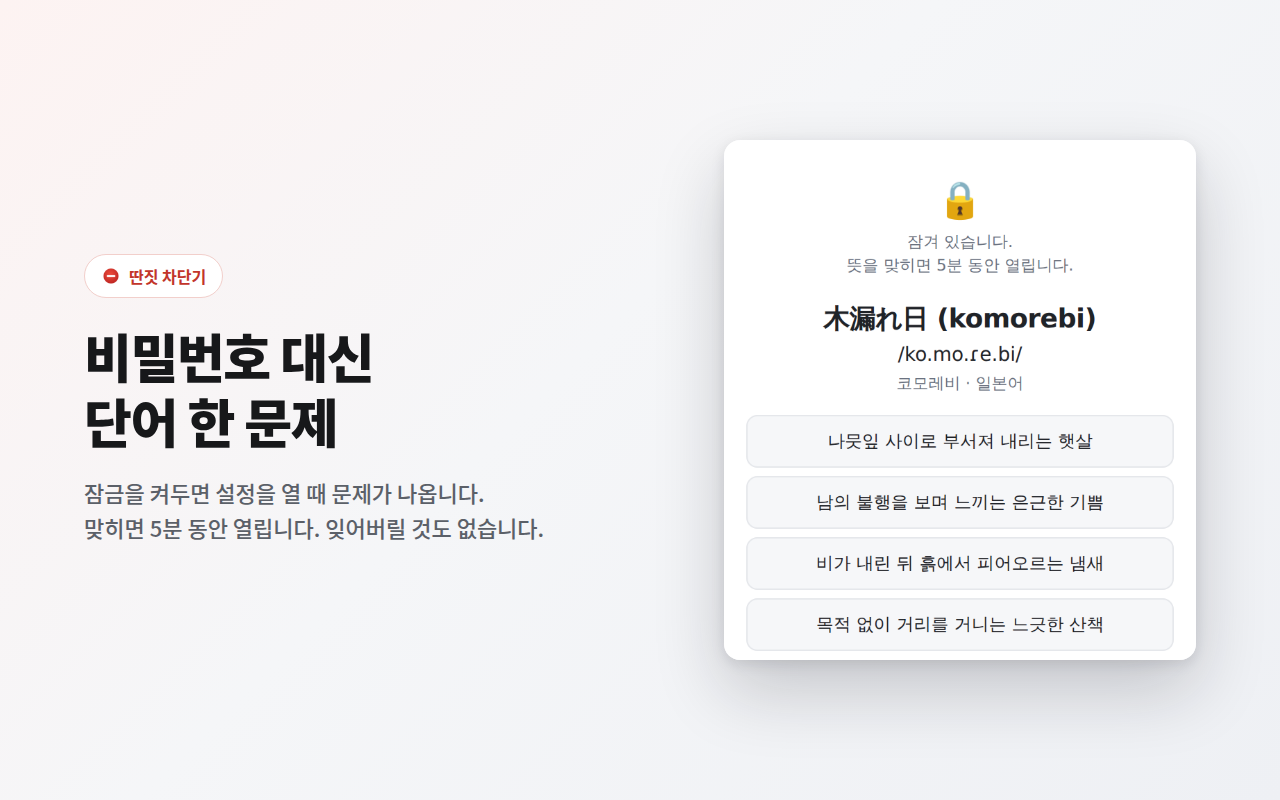
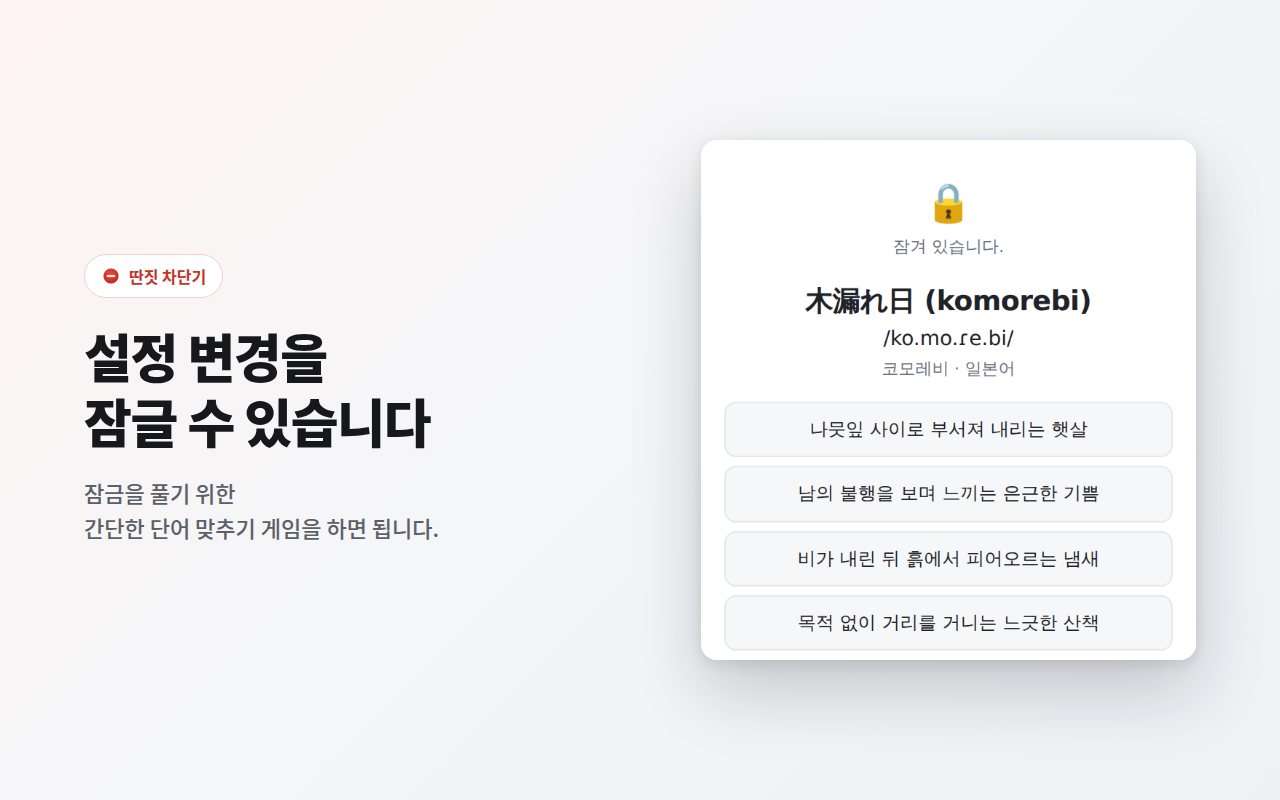
v2.1.0 개인정보처리방침 정리, 스크린샷5 수정

diff --git a/docs/index.html b/docs/index.html
@@ -113,52 +113,13 @@
     </ul>
     <p>분석 도구나 광고 SDK를 일절 포함하지 않으며, 외부 서버와 통신하는 코드가 존재하지 않습니다.</p>
 
-    <h2>2. 사용자의 브라우저에만 보관되는 설정 <span class="tag">수집 아님</span></h2>
-    <p>아래 항목은 <b>개발자가 수집하는 정보가 아닙니다.</b> 확장 프로그램이 동작하려고
-    사용자의 브라우저 안(크롬의 <code>chrome.storage</code>)에 보관하는 설정이며,
-    <b>개발자에게 전송되지 않습니다.</b></p>
-    <div class="scroll">
-    <table class="tbl">
-      <tr><th>보관 항목</th><th>내용</th><th>다른 기기와 동기화</th></tr>
-      <tr><td>차단 목록 · 예외 목록</td><td>사용자가 직접 입력한 도메인</td><td>예</td></tr>
-      <tr><td>차단 화면 문구</td><td>차단 화면에 표시할 기호와 짧은 문구</td><td>예</td></tr>
-      <tr><td>잠금 문제 단어</td><td>잠금을 풀 때 나오는 단어·발음·뜻 (사용자가 바꿀 수 있음)</td><td>예</td></tr>
-      <tr><td>동기화된 기기 목록</td><td>기기마다 한 줄: 사용자가 붙인 기기 이름("회사 PC" 등),
-        그 기기의 지금 차단·예외 목록, 목록이 마지막으로 바뀐 시각, 동기화 켜짐 여부.
-        목록이 바뀌면 최신 상태로 덮어써지며 쌓이지 않습니다. 사용자가 언제든 지울 수 있습니다.</td>
-        <td>예 (이 기기에서 동기화를 켠 경우만)</td></tr>
-      <tr><td>기기 구분 번호</td><td>내 기기끼리 구분하려고 확장 프로그램이 임의로 만든 짧은 번호.
-        하드웨어 정보와는 무관합니다.</td><td>기기 목록 안에서만</td></tr>
-      <tr><td>차단 켜짐 · 잠금 켜짐 · 동기화 켜짐</td><td>기능 켜짐/꺼짐 상태</td><td>아니요 (기기마다 따로)</td></tr>
-      <tr><td>잠금 해제 시각</td><td>문제를 맞힌 뒤 5분 동안 열어 두기 위한 시각.
-        브라우저를 닫으면 사라집니다.</td><td>아니요</td></tr>
-    </table>
-    </div>
-    <p>이 확장 프로그램은 <b>비밀번호를 사용하지 않습니다.</b> 잠금은 단어 문제로만 이루어지며,
-    계정·이메일·비밀번호를 묻거나 저장하지 않습니다.</p>
-
-    <h3>크롬 동기화에 대하여</h3>
-    <p>사용자가 크롬 동기화를 켜 두고 이 확장 프로그램의 <b>이 기기 동기화</b>도 켜 두었다면, 위 표에서 "예"로 표시된 항목이
-    <code>chrome.storage.sync</code> 를 통해 <b>사용자 본인의 구글 계정</b>에 보관되어
-    같은 계정으로 로그인한 <b>사용자 본인의 다른 크롬</b>으로만 전달됩니다.
-    이 전달은 구글이 제공하는 크롬 동기화 기능이 처리하며,
-    <b>개발자는 이 데이터에 접근할 수 없고 중간에 어떤 서버도 두지 않습니다.</b>
-    확장 프로그램 설정에서 <b>이 기기 동기화</b>를 끄거나 크롬 설정에서 동기화를 끄면,
-    그 기기의 목록은 그 기기 안에만 남고 다른 기기와 주고받지 않습니다.
-    (구글의 처리 방식은 <a href="https://policies.google.com/privacy">구글 개인정보처리방침</a>을 따릅니다.)</p>
-
-    <h3>엑셀 백업 파일에 대하여</h3>
-    <p>사용자가 직접 <b>엑셀로 내보내기</b>를 누른 경우에만, 차단·예외 목록, 차단 화면 문구,
-    잠금 문제 단어가 담긴 파일이 <b>사용자의 컴퓨터에 저장</b>됩니다.
-    이 파일은 어디로도 전송되지 않으며, 보관과 삭제는 사용자가 정합니다.</p>
-
-    <h2>3. 요청하는 권한과 사용 목적</h2>
+    <h2>2. 요청하는 권한과 사용 목적</h2>
     <div class="scroll">
     <table class="tbl">
       <tr><th>권한</th><th>사용 목적</th></tr>
       <tr>
         <td><code>storage</code></td>
-        <td>위 2항의 설정을 브라우저에 보관하고, 크롬 동기화를 켠 경우 사용자의 다른 크롬과 맞추기 위해 사용합니다.</td>
+        <td>아래 7항의 설정을 브라우저에 보관하고, 크롬 동기화를 켠 경우 사용자의 다른 크롬과 맞추기 위해 사용합니다.</td>
       </tr>
       <tr>
         <td><code>declarativeNetRequestWithHostAccess</code></td>
@@ -174,24 +135,34 @@
     </table>
     </div>
 
-    <h2>4. 제3자 제공 및 외부 전송</h2>
+    <h2>3. 제3자 제공 및 외부 전송</h2>
     <p>개발자가 수집하는 정보가 없으므로 제3자에게 제공하거나 판매하는 정보도 없습니다.
     이 확장 프로그램은 어떤 외부 서버와도 통신하지 않습니다.
     크롬 동기화를 켠 경우의 기기 간 전달은 사용자 본인의 구글 계정 안에서만 이루어집니다.</p>
 
-    <h2>5. 데이터 삭제</h2>
+    <h2>4. 데이터 삭제</h2>
     <p><code>chrome://extensions</code> 에서 이 확장 프로그램을 삭제하면 그 브라우저에 보관된 설정이 함께 지워집니다.
     크롬 동기화로 구글 계정에 보관된 사본은 모든 기기에서 확장 프로그램을 삭제하거나,
     <a href="https://chrome.google.com/sync">크롬 동기화 데이터 관리</a> 페이지에서 동기화를 초기화해 지울 수 있습니다.
     개발자는 이 데이터를 갖고 있지 않으므로 별도의 삭제 요청 절차가 필요 없습니다.</p>
 
-    <h2>6. 아동의 개인정보</h2>
+    <h2>5. 아동의 개인정보</h2>
     <p>이 확장 프로그램은 연령과 무관하게 어떤 개인정보도 수집하지 않습니다.</p>
 
-    <h2>7. 방침 변경</h2>
+    <h2>6. 방침 변경</h2>
     <p>내용이 변경되면 이 페이지를 갱신하고 상단의 시행일을 함께 수정합니다.
     수집하는 정보가 생기는 등 중대한 변경이 있을 경우 확장 프로그램 업데이트
     안내를 통해 별도로 알립니다.</p>
+
+    <h2>7. 브라우저에만 보관되는 설정 <span class="tag">수집 아님</span></h2>
+    <p>확장 프로그램이 동작하려고 사용자의 브라우저에 아래 설정만 보관합니다. 개발자에게 전송되지 않습니다.</p>
+    <ul>
+      <li>차단 목록 · 예외 목록</li>
+      <li>차단 화면 문구 · 잠금 문제 단어</li>
+      <li>기기 이름(과 구분용 임의 번호), 기능 켜짐/꺼짐 상태</li>
+    </ul>
+    <p>크롬 동기화와 <b>이 기기 동기화</b>를 켜 두면, 이 설정은 <b>사용자 본인의 구글 계정</b>을 통해
+    본인의 다른 크롬으로만 전달됩니다. 엑셀로 내보내기를 누르면 같은 내용이 사용자의 컴퓨터에 파일로 저장됩니다.</p>
 
     <h2>8. 문의</h2>
     <p>개인정보 처리에 관한 문의는 아래로 연락해 주세요.</p>
@@ -219,50 +190,13 @@
     <p>The extension contains no analytics or advertising SDKs, and no code that
     communicates with any external server.</p>
 
-    <h2>2. Settings kept only in your browser <span class="tag">not collected</span></h2>
-    <p>The items below are <b>not information collected by the developer.</b> They are settings
-    the extension keeps inside your browser (Chrome's <code>chrome.storage</code>) so that it can work,
-    and they are <b>never sent to the developer.</b></p>
-    <div class="scroll">
-    <table class="tbl">
-      <tr><th>Item</th><th>Description</th><th>Synced to your other devices</th></tr>
-      <tr><td>Block list · exception list</td><td>Domains you entered yourself</td><td>Yes</td></tr>
-      <tr><td>Block page text</td><td>The symbol and short message shown on the block page</td><td>Yes</td></tr>
-      <tr><td>Unlock words</td><td>Words, pronunciations and meanings used by the unlock question (editable by you)</td><td>Yes</td></tr>
-      <tr><td>Synced device list</td><td>One row per device: the name you give it ("Work PC"), that device's
-        current block and exception lists, when they last changed, and whether its sync is on.
-        Each row is overwritten with the latest state and never accumulates. You can delete rows at any time.</td>
-        <td>Yes (only when sync is on for that device)</td></tr>
-      <tr><td>Device tag</td><td>A short random tag the extension creates to tell your own devices apart.
-        It has nothing to do with hardware.</td><td>Only inside the device list</td></tr>
-      <tr><td>Blocking on · lock on · sync on</td><td>Whether each feature is turned on</td><td>No (per device)</td></tr>
-      <tr><td>Unlock time</td><td>Keeps settings open for 5 minutes after a correct answer.
-        Cleared when the browser closes.</td><td>No</td></tr>
-    </table>
-    </div>
-    <p>This extension <b>does not use passwords.</b> The lock is a word question only.
-    It never asks for or stores an account, email address or password.</p>
-
-    <h3>About Chrome Sync</h3>
-    <p>If you have Chrome Sync enabled and <b>Sync this device</b> is on in the extension, the items marked "Yes" above are kept via
-    <code>chrome.storage.sync</code> in <b>your own Google account</b> and delivered only to
-    <b>your own other Chrome browsers</b> signed in to that account. This is handled by Google's
-    Chrome Sync feature; <b>the developer cannot access this data and operates no server in between.</b>
-    Turning off <b>Sync this device</b> in the extension, or Chrome Sync itself, keeps that device's lists
-    on that device only and stops exchanging them. (Google's handling is governed by the
-    <a href="https://policies.google.com/privacy">Google Privacy Policy</a>.)</p>
-
-    <h3>About the Excel backup file</h3>
-    <p>Only when you click <b>Export to Excel</b>, a file containing your lists, block page text and
-    unlock words is <b>saved on your computer.</b> It is never sent anywhere; you decide whether to keep or delete it.</p>
-
-    <h2>3. Permissions and why they are needed</h2>
+    <h2>2. Permissions and why they are needed</h2>
     <div class="scroll">
     <table class="tbl">
       <tr><th>Permission</th><th>Purpose</th></tr>
       <tr>
         <td><code>storage</code></td>
-        <td>To keep the settings in section 2 in your browser and, if Chrome Sync is on, keep them in step with your other Chrome browsers.</td>
+        <td>To keep the settings in section 7 in your browser and, if Chrome Sync is on, keep them in step with your other Chrome browsers.</td>
       </tr>
       <tr>
         <td><code>declarativeNetRequestWithHostAccess</code></td>
@@ -278,24 +212,34 @@
     </table>
     </div>
 
-    <h2>4. Third parties</h2>
+    <h2>3. Third parties</h2>
     <p>Since the developer collects no data, none is shared or sold. The extension does not
     communicate with any external server. Transfer between devices, if you turn on Chrome Sync,
     happens only within your own Google account.</p>
 
-    <h2>5. Deleting your data</h2>
+    <h2>4. Deleting your data</h2>
     <p>Removing the extension from <code>chrome://extensions</code> deletes the settings kept in that browser.
     The copy kept in your Google account by Chrome Sync is removed when you remove the extension from all
     your devices, or by resetting sync on the <a href="https://chrome.google.com/sync">Chrome Sync data</a> page.
     The developer holds none of this data, so no deletion request is needed.</p>
 
-    <h2>6. Children's privacy</h2>
+    <h2>5. Children's privacy</h2>
     <p>This extension collects no personal data from users of any age.</p>
 
-    <h2>7. Changes to this policy</h2>
+    <h2>6. Changes to this policy</h2>
     <p>If this policy changes, this page and the effective date above will be updated.
     Material changes — such as beginning to collect any data — will additionally be
     announced through the extension's update notes.</p>
+
+    <h2>7. Settings kept only in your browser <span class="tag">not collected</span></h2>
+    <p>To work, the extension keeps only these settings in your browser. They are never sent to the developer.</p>
+    <ul>
+      <li>Block list · exception list</li>
+      <li>Block page text · unlock words</li>
+      <li>Device name (and a random tag to tell your devices apart), on/off states</li>
+    </ul>
+    <p>If Chrome Sync and <b>Sync this device</b> are on, these settings travel only to your own other Chrome
+    browsers through <b>your own Google account</b>. Clicking Export to Excel saves the same content as a file on your computer.</p>
 
     <h2>8. Contact</h2>
     <p>For any privacy-related question, please get in touch:</p>

diff --git a/store-assets/submission.md b/store-assets/submission.md
@@ -15,15 +15,9 @@
 ```
 Ddanjit Blocker blocks websites that the user chooses.
 
-The user enters domains into a block list in the extension popup. The extension
-turns that list into declarativeNetRequest rules and registers them with Chrome,
-so that navigation to those domains is redirected to a block page bundled inside
-the extension. The user can also add exceptions (for example, block naver.com but
-still allow map.naver.com), customize the text shown on the block page, and
-optionally require a short multiple-choice word question before the settings can
-be changed.
+The user enters domains into a block list in the extension popup. The extension turns that list into declarativeNetRequest rules and registers them with Chrome, so that navigation to those domains is redirected to a block page bundled inside the extension. The user can also add exceptions (for example, block naver.com but still allow map.naver.com), keep the same block list on their own Chrome browsers through Chrome Sync, and optionally lock the settings behind a short word quiz.
 
-That is the extension's only function. It has no other features.
+All of these serve the single purpose of blocking the sites the user chose. The extension has no other features.
 ```
 
 한국어 (이해용)
@@ -46,14 +40,9 @@ That is the extension's only function. It has no other features.
 ### `storage`
 
 ```
-Used to persist the user's own settings: the block list, the exception list, the
-custom block page text and emoji, the words used by the optional unlock question,
-a per-device view of the user's own current lists across their devices, and the enabled/lock/sync state.
+Used to keep the user's own settings in the browser: the block list, the exception list, the block page text, the words used by the optional unlock quiz, the on/off state of blocking, lock and sync, and a device name so the user can see which of their own devices are syncing.
 
-The extension makes no network requests and contacts no server of ours. If the user
-has Chrome Sync enabled, chrome.storage.sync lets Chrome carry these settings between
-the user's own signed-in Chrome browsers. No account, email address or password is
-ever requested or stored.
+The extension makes no network requests and has no server. If the user turns on Chrome Sync, chrome.storage.sync lets Chrome carry these settings only between the user's own signed-in Chrome browsers. No account, email address or password is ever requested or stored.
 ```
 
 > 기기에 사용자 설정을 저장하기 위해서만 사용. 어디로도 전송하지 않음.

diff --git a/store-assets/listing.md b/store-assets/listing.md
@@ -56,8 +56,8 @@ naver.com 처럼 주소 하나만 넣으면 m.naver.com, blog.naver.com 같은
 
 ■ 충동적으로 풀지 못하게
 
-잠금을 켜두면 설정을 열 때마다 단어 문제 한 문제가 나옵니다.
-맞히면 5분 동안 열립니다. 비밀번호가 없으니 잊어버릴 일도 없습니다.
+설정 변경을 잠글 수 있습니다.
+잠금을 풀기 위한 간단한 단어 맞추기 게임을 하면 됩니다.
 문제에 나올 단어는 엑셀에서 직접 골라 넣을 수 있습니다.
 
 ■ 군더더기 없는 차단 화면
